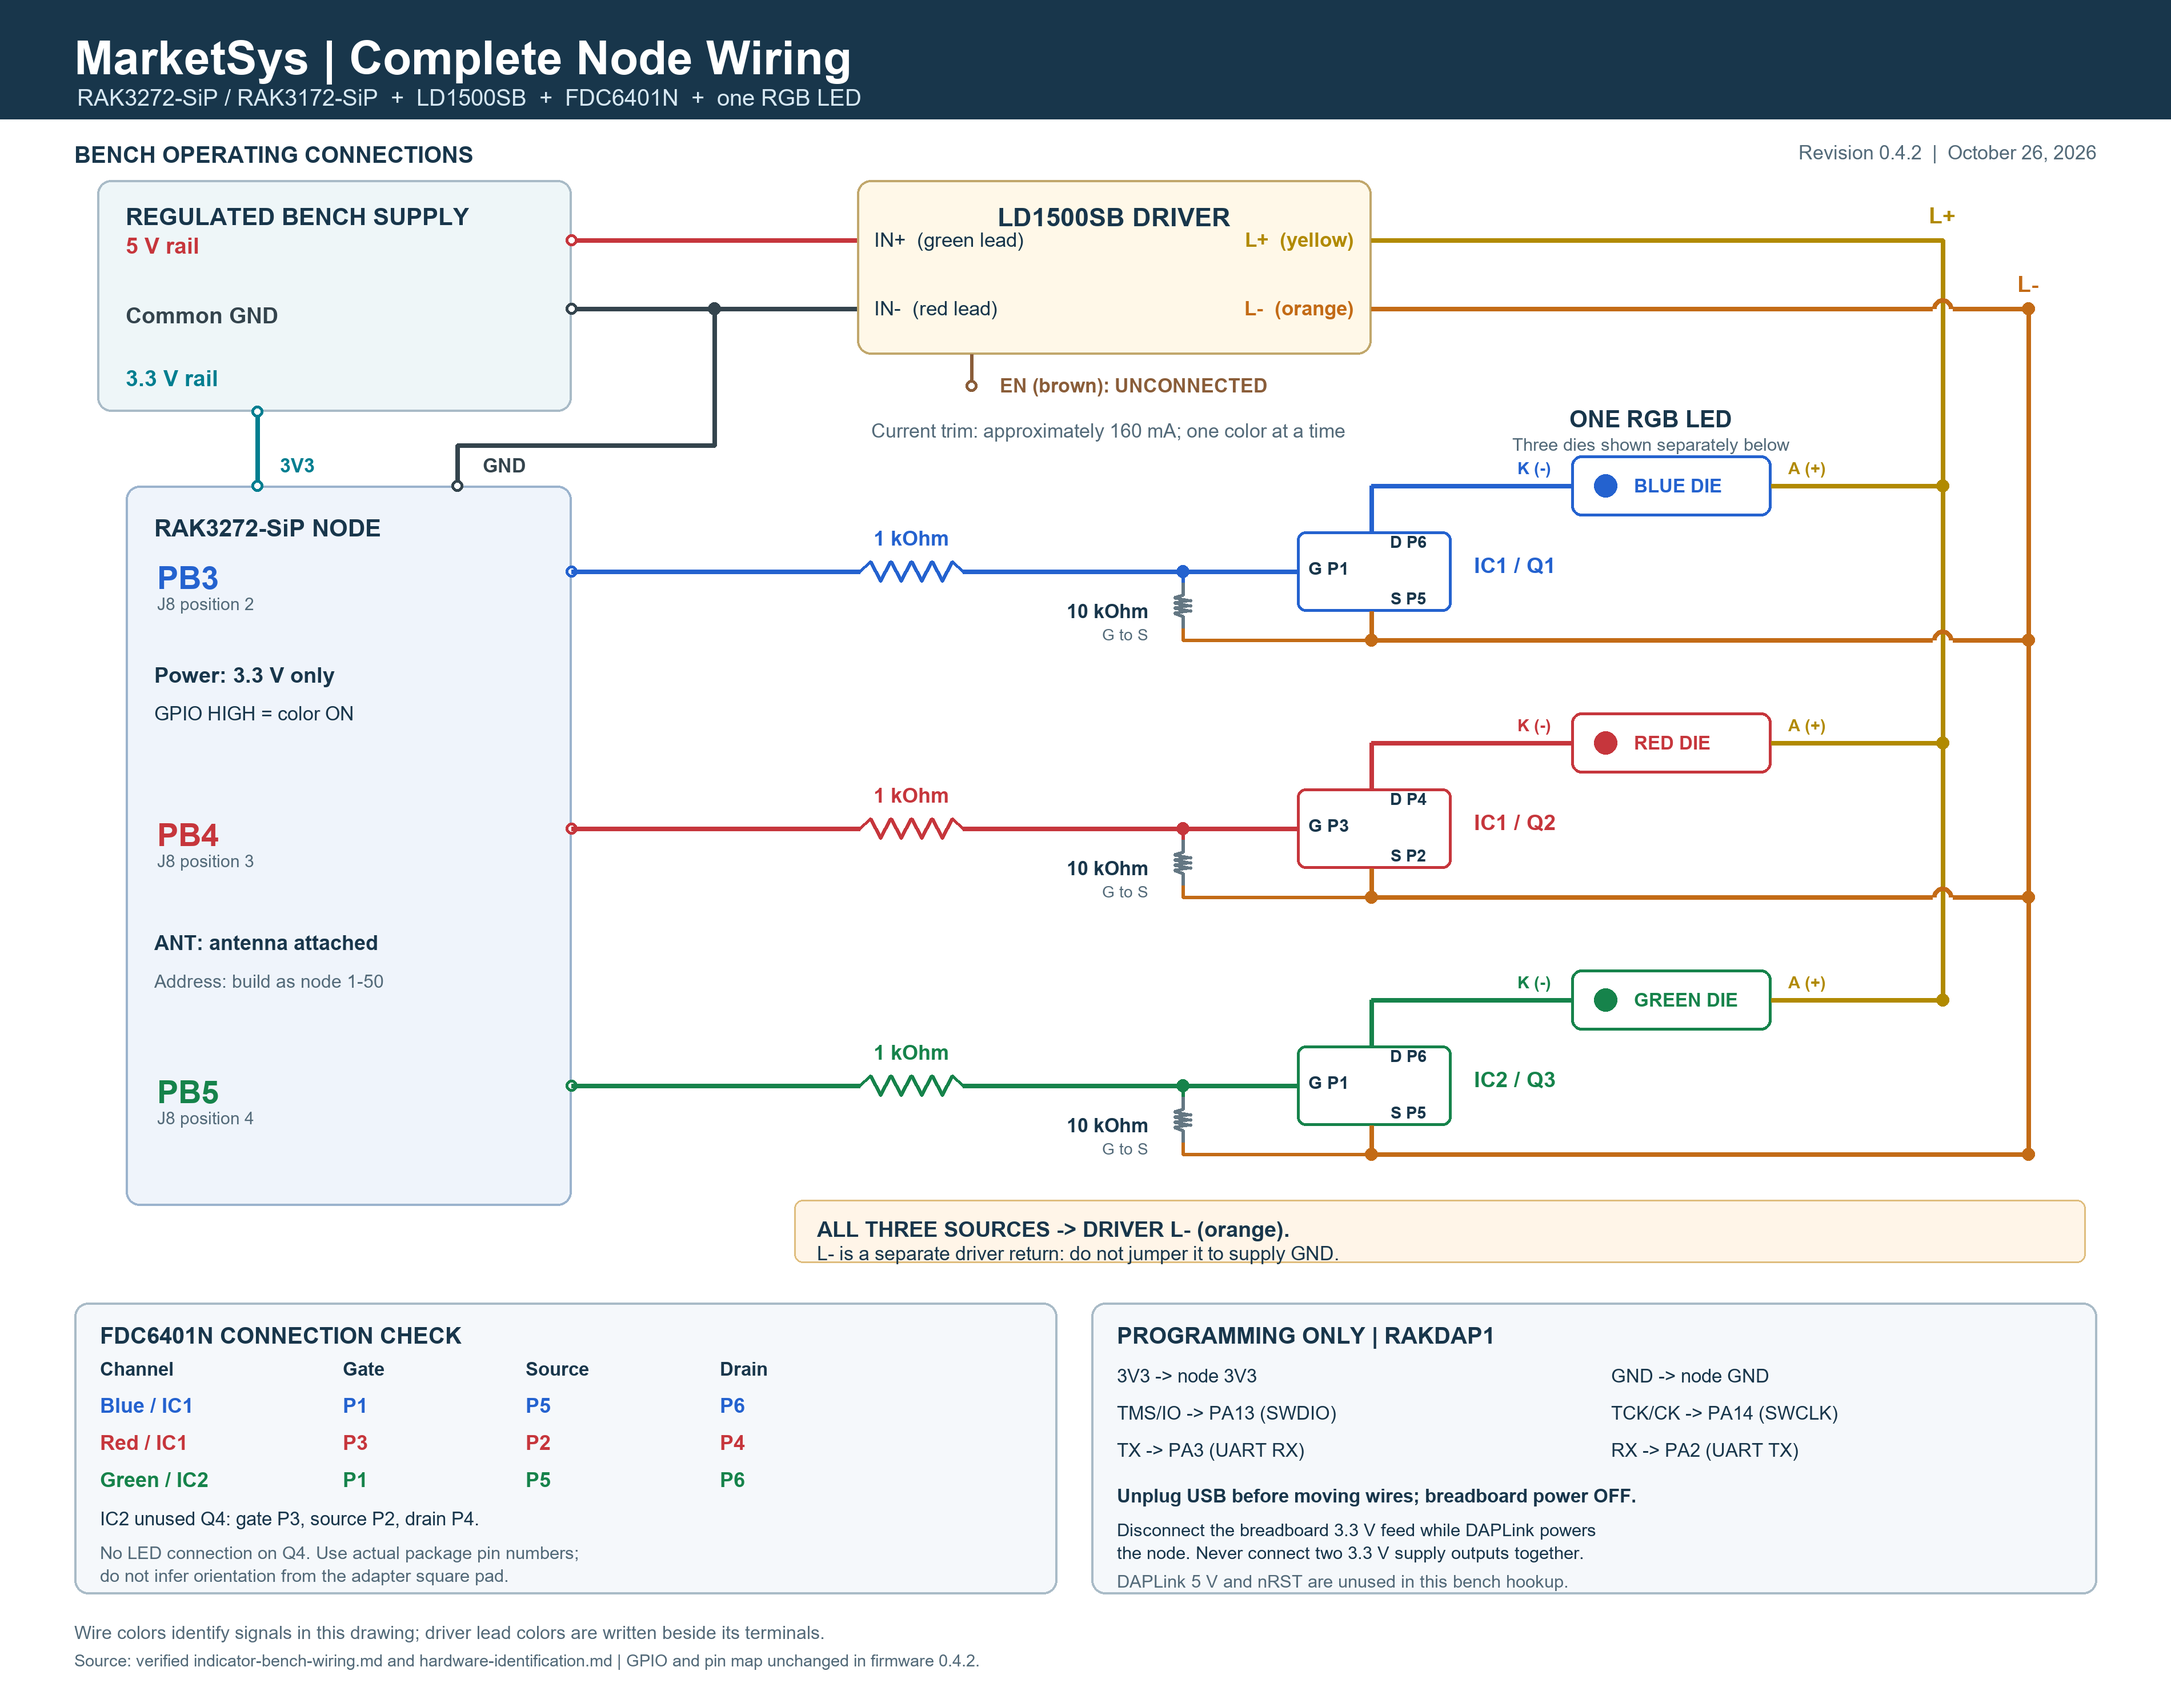
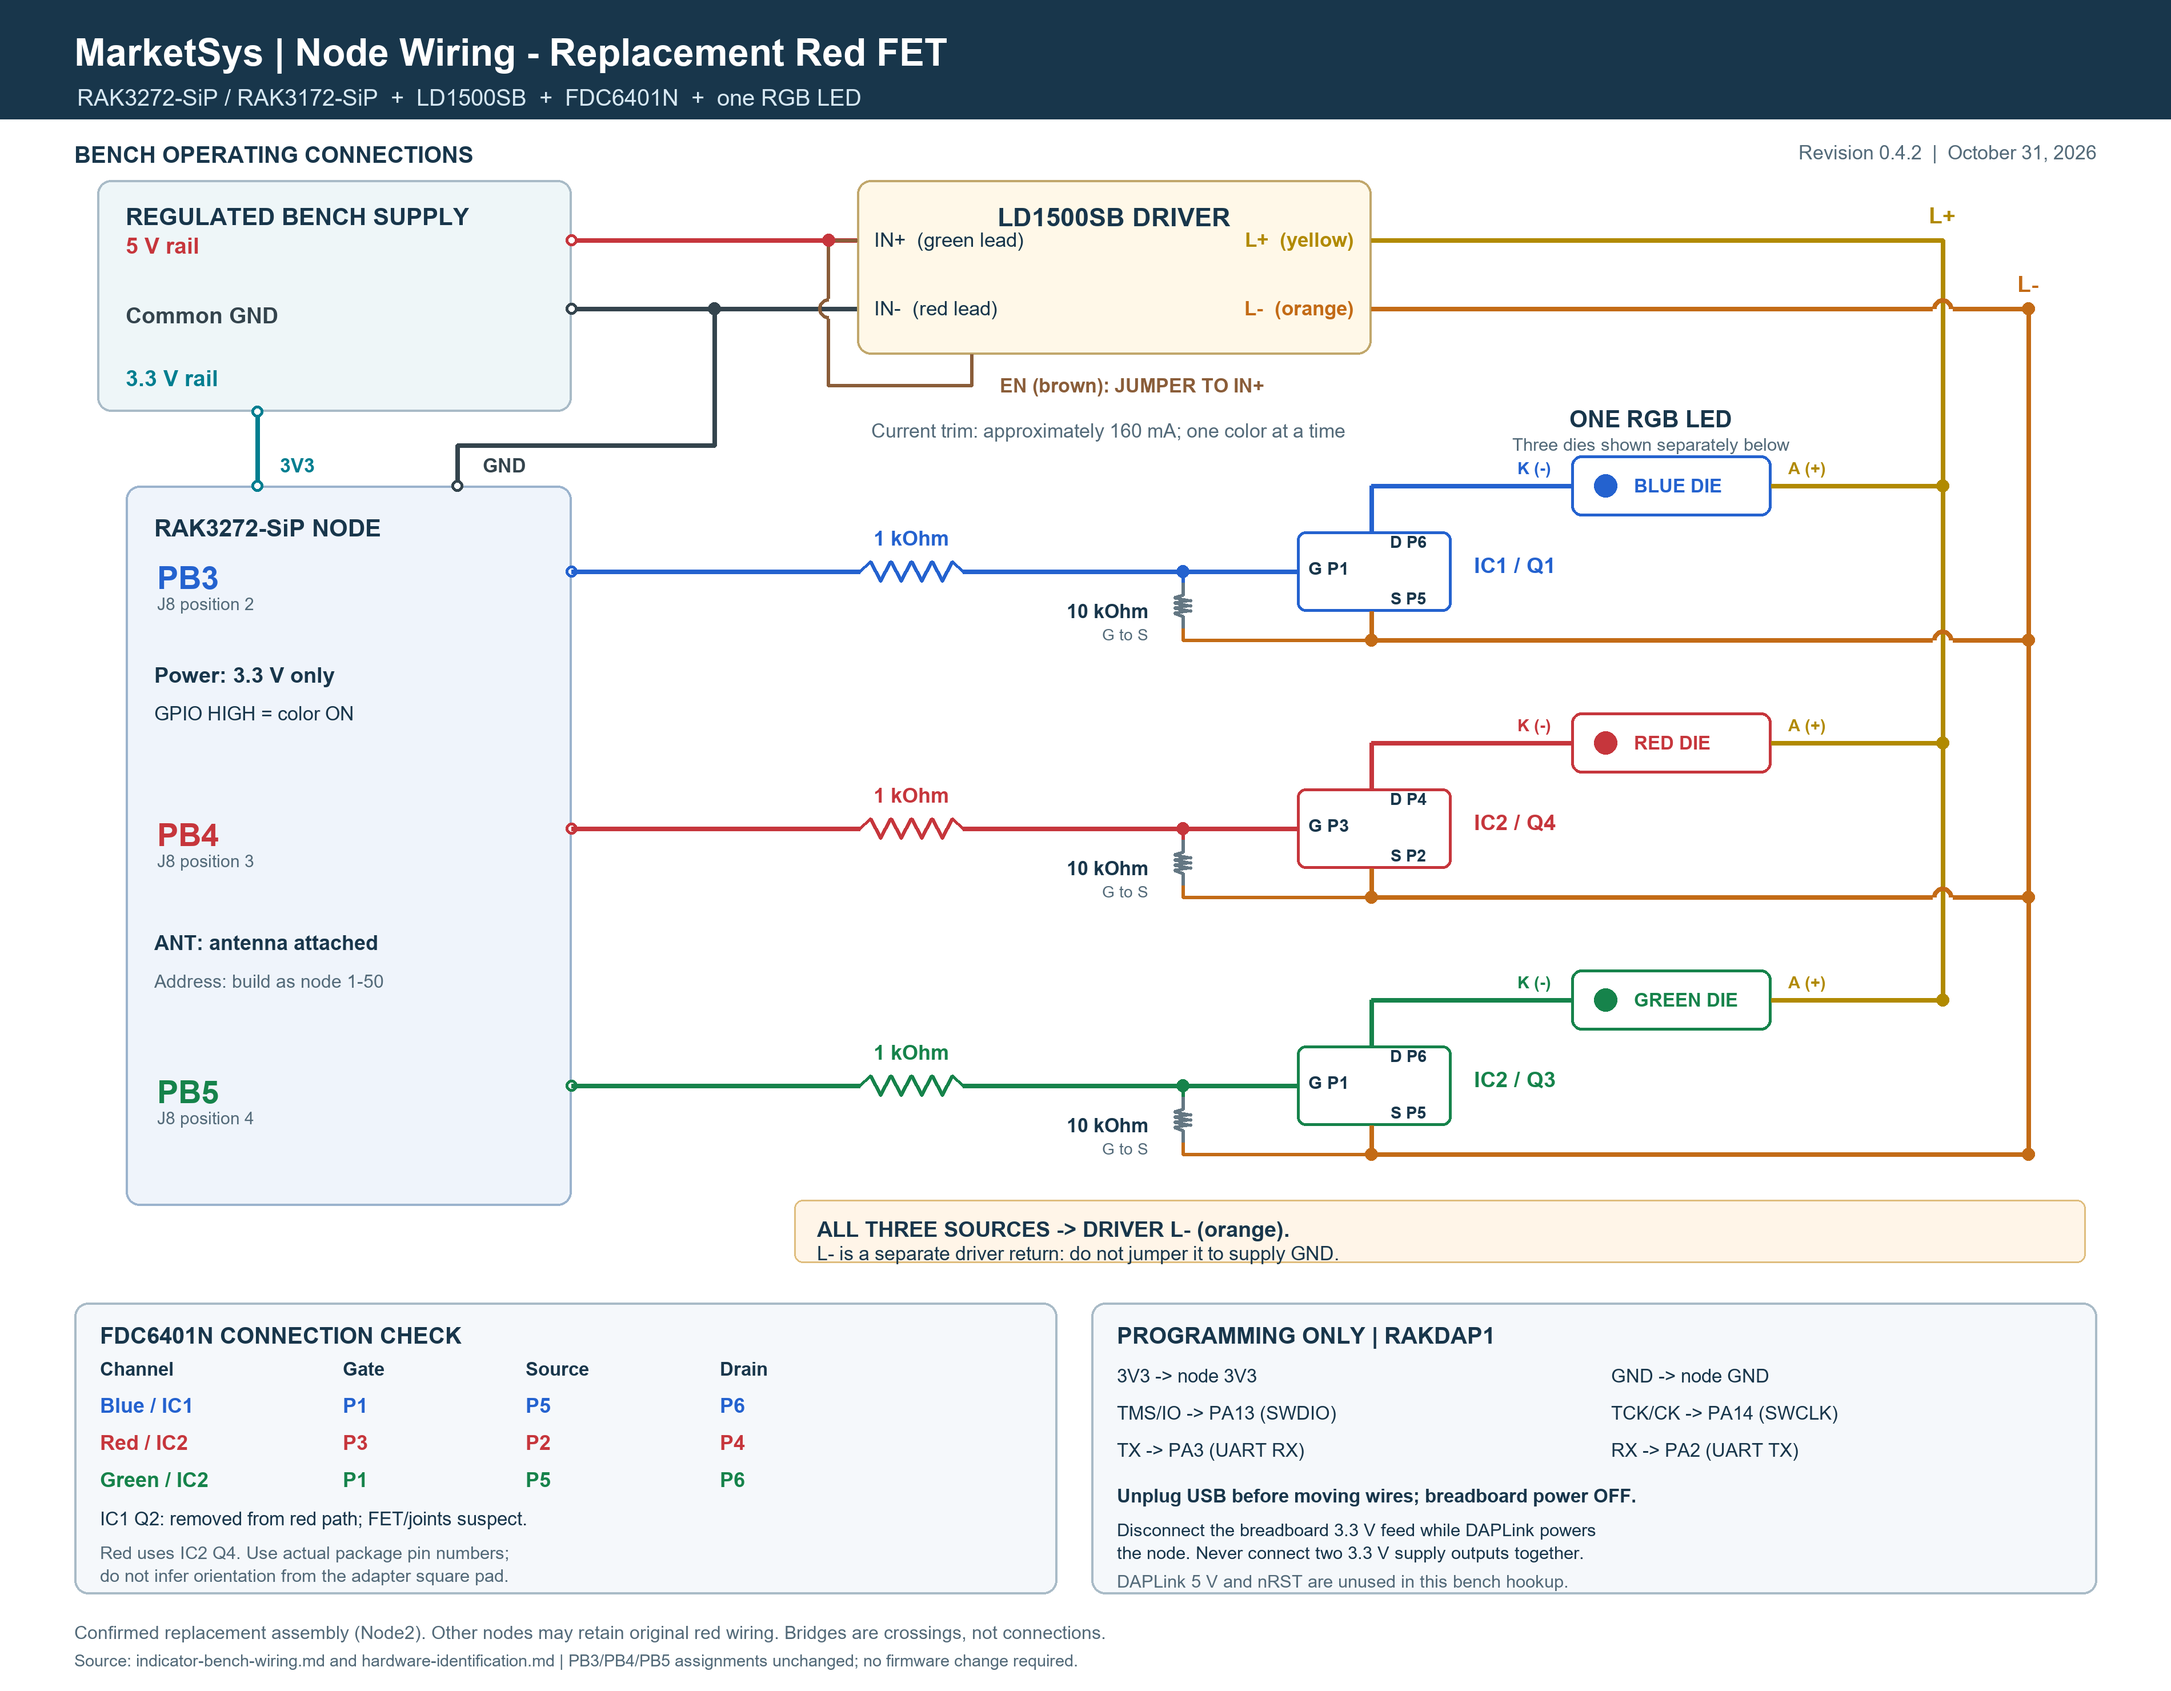
Document Node2 replacement red FET wiring

diff --git a/scripts/draw_node_wiring.py b/scripts/draw_node_wiring.py
@@ -32,10 +32,10 @@ def jump_return(y):
 
 # Header
 box((0,0,W,208),'#18364b','#18364b',0)
-txt(130,55,'MarketSys | Complete Node Wiring',82,True,'white')
+txt(130,55,'MarketSys | Node Wiring - Replacement Red FET',66,True,'white')
 txt(135,148,'RAK3272-SiP / RAK3172-SiP  +  LD1500SB  +  FDC6401N  +  one RGB LED',40,False,'#d7e8f3')
 txt(130,248,'BENCH OPERATING CONNECTIONS',40,True)
-txt(3670,248,'Revision 0.4.2  |  October 26, 2026',34,False,MUTED,'ra')
+txt(3670,248,'Revision 0.4.2  |  October 31, 2026',34,False,MUTED,'ra')
 
 # Power and driver
 box((170,315,1000,720),'#eef6f8')
@@ -54,8 +54,10 @@ txt(1530,420,'IN+  (green lead)',35,False,INK,'lm')
 txt(1530,540,'IN-  (red lead)',35,False,INK,'lm')
 txt(2370,420,'L+  (yellow)',35,True,GOLD,'rm')
 txt(2370,540,'L-  (orange)',35,True,ORANGE,'rm')
-wire([(1700,620),(1700,675)],'#8a5d39',6);terminal(1700,675,'#8a5d39')
-txt(1750,675,'EN (brown): UNCONNECTED',34,True,'#8a5d39','lm')
+wire([(1700,620),(1700,675),(1450,675),(1450,558)],'#8a5d39',6)
+d.arc((1432,522,1468,558),90,270,fill='#8a5d39',width=6)
+wire([(1450,522),(1450,420),(1500,420)],'#8a5d39',6);dot(1450,420,RED)
+txt(1750,675,'EN (brown): JUMPER TO IN+',34,True,'#8a5d39','lm')
 wire([(2400,420),(3400,420),(3400,1750)],GOLD)
 wire([(3550,540),(3550,2020)],ORANGE);jump_return(540)
 txt(3400,355,'L+',39,True,GOLD,'ma');txt(3550,475,'L-',39,True,ORANGE,'ma')
@@ -73,7 +75,7 @@ txt(270,1700,'Address: build as node 1-50',32,False,MUTED)
 txt(2890,710,'ONE RGB LED',41,True,INK,'ma')
 txt(2890,760,'Three dies shown separately below',31,False,MUTED,'ma')
 
-channels=[('BLUE','PB3','J8 position 2','IC1 / Q1','P1','P6','P5',BLUE,0),('RED','PB4','J8 position 3','IC1 / Q2','P3','P4','P2',RED,450),('GREEN','PB5','J8 position 4','IC2 / Q3','P1','P6','P5',GREEN,900)]
+channels=[('BLUE','PB3','J8 position 2','IC1 / Q1','P1','P6','P5',BLUE,0),('RED','PB4','J8 position 3','IC2 / Q4','P3','P4','P2',RED,450),('GREEN','PB5','J8 position 4','IC2 / Q3','P1','P6','P5',GREEN,900)]
 for name,pb,header,ic,g,dr,src,c,dy in channels:
  gy=1000+dy;ly=850+dy;sy=1120+dy
  # Gate trace and its series resistor
@@ -113,10 +115,10 @@ txt(1430,2175,'L- is a separate driver return: do not jumper it to supply GND.',
 box((130,2280,1850,2790),'#f5f8fb')
 txt(175,2315,'FDC6401N CONNECTION CHECK',40,True)
 txt(175,2378,'Channel',33,True);txt(600,2378,'Gate',33,True);txt(920,2378,'Source',33,True);txt(1260,2378,'Drain',33,True)
-for yy,values,c in [(2440,('Blue / IC1','P1','P5','P6'),BLUE),(2505,('Red / IC1','P3','P2','P4'),RED),(2570,('Green / IC2','P1','P5','P6'),GREEN)]:
+for yy,values,c in [(2440,('Blue / IC1','P1','P5','P6'),BLUE),(2505,('Red / IC2','P3','P2','P4'),RED),(2570,('Green / IC2','P1','P5','P6'),GREEN)]:
  for xx,v in zip([175,600,920,1260],values):txt(xx,yy,v,36,True,c)
-txt(175,2640,'IC2 unused Q4: gate P3, source P2, drain P4.',33)
-txt(175,2700,'No LED connection on Q4. Use actual package pin numbers;',31,False,MUTED)
+txt(175,2640,'IC1 Q2: removed from red path; FET/joints suspect.',33)
+txt(175,2700,'Red uses IC2 Q4. Use actual package pin numbers;',31,False,MUTED)
 txt(175,2740,'do not infer orientation from the adapter square pad.',31,False,MUTED)
 box((1910,2280,3670,2790),'#f5f8fb')
 txt(1955,2315,'PROGRAMMING ONLY | RAKDAP1',40,True)
@@ -128,7 +130,7 @@ txt(1955,2700,'the node. Never connect two 3.3 V supply outputs together.',31)
 txt(1955,2750,'DAPLink 5 V and nRST are unused in this bench hookup.',31,False,MUTED)
 
 # Footer
-txt(130,2840,'Wire colors identify signals in this drawing; driver lead colors are written beside its terminals.',32,False,MUTED)
-txt(130,2890,'Source: verified indicator-bench-wiring.md and hardware-identification.md | GPIO and pin map unchanged in firmware 0.4.2.',29,False,MUTED)
+txt(130,2840,'Confirmed replacement assembly (Node2). Other nodes may retain original red wiring. Bridges are crossings, not connections.',32,False,MUTED)
+txt(130,2890,'Source: indicator-bench-wiring.md and hardware-identification.md | PB3/PB4/PB5 assignments unchanged; no firmware change required.',29,False,MUTED)
 im.save(OUT,dpi=(300,300),optimize=True)
 print(OUT, im.size)

diff --git a/docs/indicator-bench-wiring.md b/docs/indicator-bench-wiring.md
@@ -1,10 +1,24 @@
 # Indicator bench wiring and resistor stage
 
+## Confirmed red-channel change (October 31)
+
+During Node2's red-channel troubleshooting, the user moved red to IC2's
+formerly unused FET and reported the test good, then confirmed the new pin
+mapping: gate IC2 P3, source IC2 P2, drain IC2 P4. PB4 still drives red through
+1 kohm; its 10 kohm gate-to-source resistor belongs across IC2 P3-P2. IC1's
+former red FET (P3/P2/P4) is removed from the red path. The original FET or its
+solder/adapter connections remain suspect; the exact failed component/joint
+has not been isolated. This swap does not require a firmware pin change.
+The updated PNG shows this replacement wiring and EN tied to IN+.
+This change is confirmed for Node2's assembly; do not assume Node1 or Node3
+has been physically rewired the same way.
+
+
 ## Current EN connection reported October 30
 
 The user confirmed EN is tied to driver IN+ on the soldered assembly. Earlier
-manual-test notes and the October 26 PNG show the prior unconnected-EN setup;
-that EN detail is historical. No GPIO is connected to EN and no enable GPIO
+manual-test notes and the original October 26 PNG showed the prior unconnected-
+EN setup; the PNG has now been updated to the tied-high configuration. No GPIO is connected to EN and no enable GPIO
 firmware has been added. Red illuminated; blue/green have been intermittent,
 with a suspected loose connection and retesting recorded in indicator-revision-044.md.
 
@@ -26,9 +40,9 @@ The manufacturer's page 1 was rendered and visually inspected to confirm it.
 | Device | Package | Gate | Source | Drain | Color |
 | --- | --- | --- | --- | --- | --- |
 | Q1 | IC1 | P1 | P5 | P6 | Blue |
-| Q2 | IC1 | P3 | P2 | P4 | Red |
+| Q2 | IC1 | P3 | P2 | P4 | Removed from red path; suspect FET or joint |
 | Q3 | IC2 | P1 | P5 | P6 | Green |
-| Q4 | IC2 | P3 | P2 | P4 | Unused |
+| Q4 | IC2 | P3 | P2 | P4 | Red (replacement path) |
 
 [onsemi FDC6401N datasheet](https://www.onsemi.com/download/data-sheet/pdf/fdc6401n-d.pdf).
 Adapter numbering must match installed chip orientation; square pad convention
@@ -46,7 +60,7 @@ Driver IN- and RAK ground are the supply common ground.
 
 With both rails off, remove manual gate-to-source shorting jumpers and all
 manual 3.3 V gate links. Install three 10 kohm gate-to-source resistors:
-IC1 P1-P5, IC1 P3-P2, IC2 P1-P5. A 10 kohm resistor replaces each short;
+IC1 P1-P5 (blue), IC2 P3-P2 (red), IC2 P1-P5 (green). A 10 kohm resistor replaces each short;
 do not leave the short in parallel. With GPIO disconnected, repeat all-OFF.
 The subsequent hookup, firmware upload and tests are recorded in
 node1-indicator-test.md; the installation instructions here are retained.
@@ -60,7 +74,7 @@ installed RUI3 4.2.4 variant.h on Lin, and subsequent physical color tests):
 | Color | RAK physical connection | SDK name | Through 1 kohm to |
 | --- | --- | --- | --- |
 | Blue | J8 pin 2 | PB3 | IC1 P1 |
-| Red | J8 pin 3 | PB4 | IC1 P3 |
+| Red | J8 pin 3 | PB4 | IC2 P3 |
 | Green | J8 pin 4 | PB5 | IC2 P1 |
 
 [RAK3272-SiP pinout](https://docs.rakwireless.com/product-categories/wisduo/rak3272-sip-breakout-board/datasheet/).

diff --git a/docs/project-context.md b/docs/project-context.md
@@ -271,3 +271,16 @@ the exact record. Central remains 0.4.2; all nodes remain 0.4.3. No hold is
 running and no firmware change was made. This completes Node1's full post-
 update visual/radio check; earlier optical failures remain historical and
 Nodes2/3 validation is separate. Read-only polling remains unimplemented.
+
+## Node2 red-channel FET replacement (October 31)
+
+The user reported a successful test after moving red to IC2's formerly unused
+FET and confirmed G=IC2 P3, S=IC2 P2, D=IC2 P4. Red remains controlled by PB4
+through 1 kohm; its 10 kohm pull-down is gate-to-source at the new FET. IC1's
+old red FET/joints remain suspect, not conclusively diagnosed. The diagram and
+wiring table are updated for the replacement assembly; this does not imply
+other nodes were rewired. EN is tied to IN+ per the earlier user confirmation.
+No firmware change or flash was made. Node2 red hold was stopped; its shutdown
+OFF and a retry were unacknowledged, so no fresh radio OFF confirmation is
+claimed. The user subsequently reported the replacement test good, without
+specifying a new radio transaction or complete five-state visual pass.
